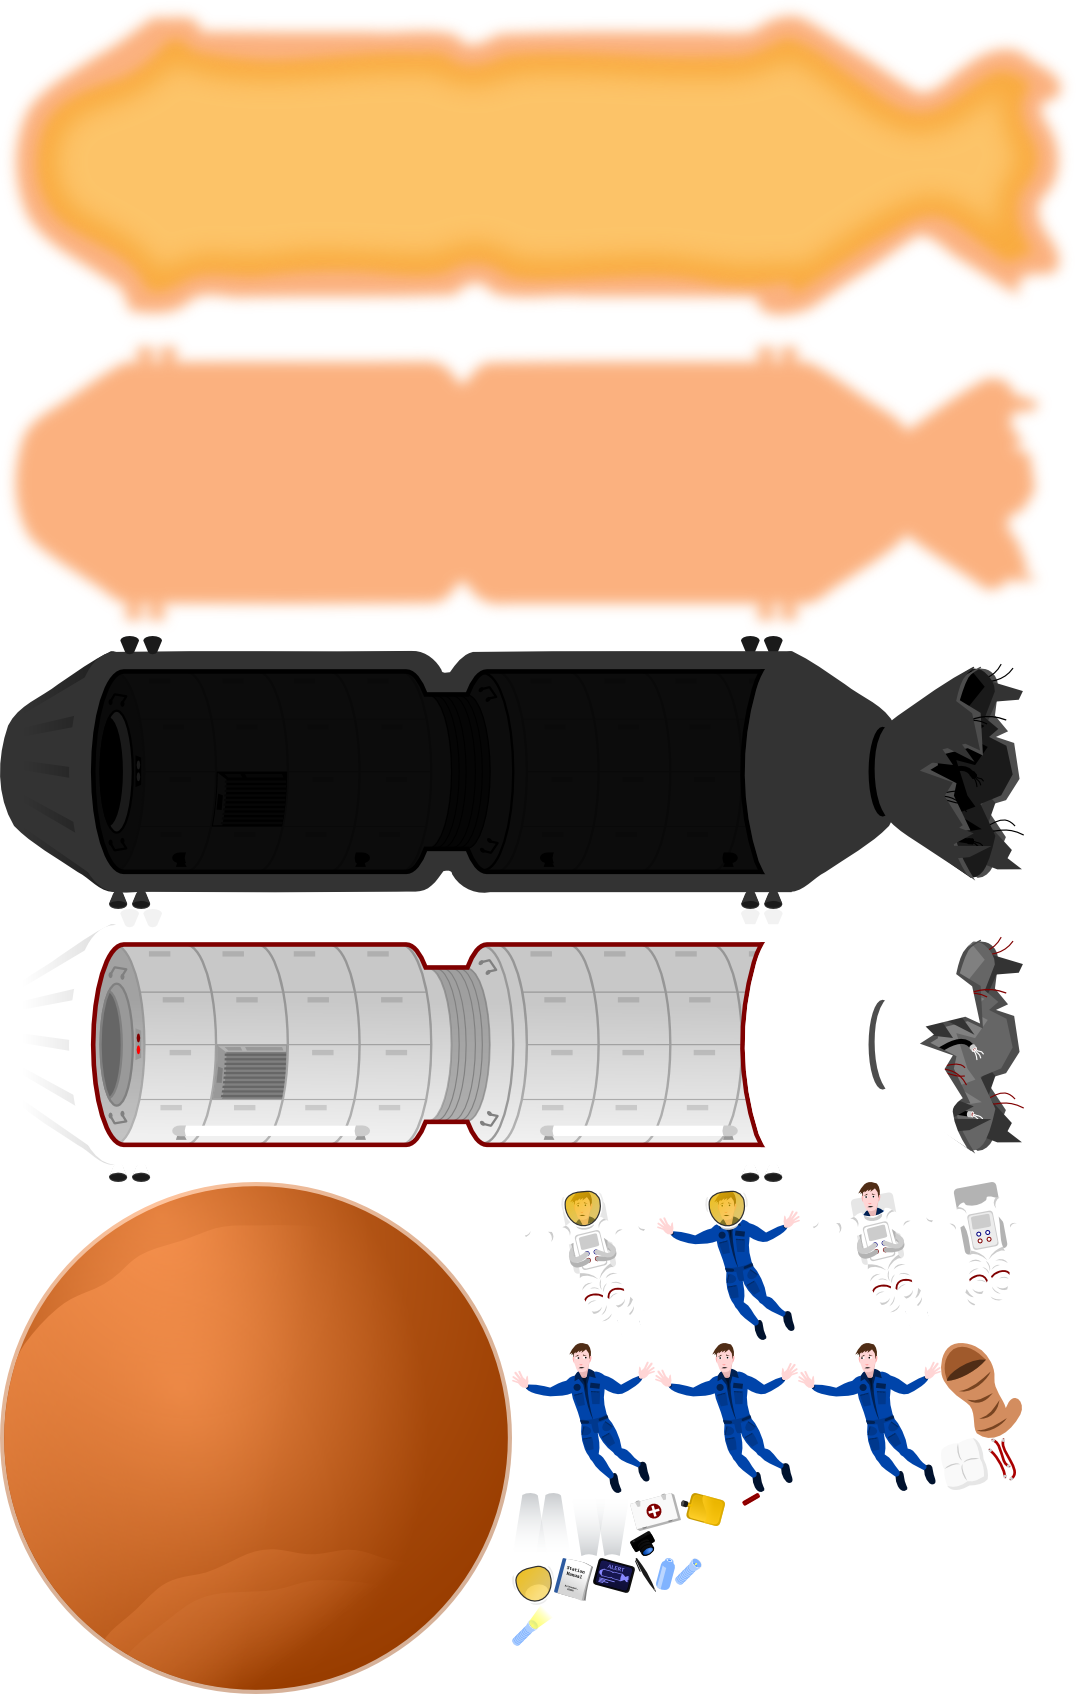
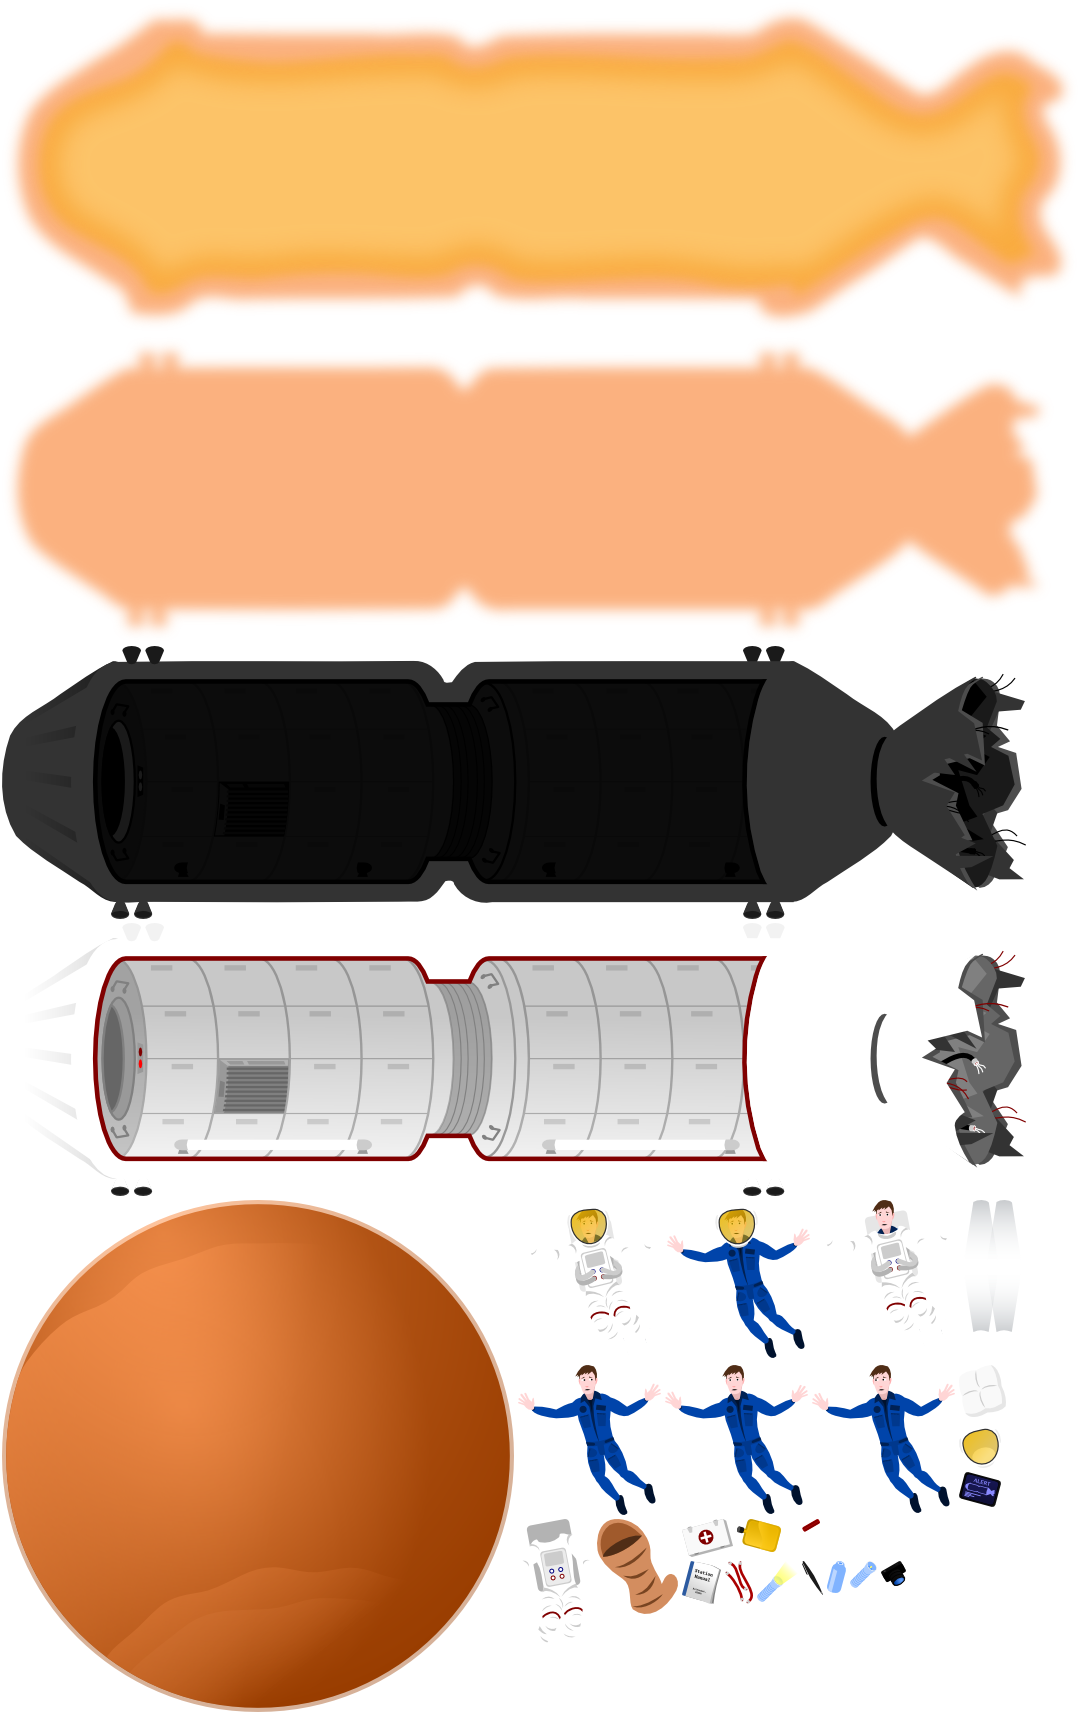
Added padding around sprites for resizing
Because of the resampling a sprite can "bleed" out of its frame.

diff --git a/index.html b/index.html
@@ -257,22 +257,22 @@ var Game = (function()
 				offset: 0,
 				distance: 0,
 				angle: 0,
-				res: [{/*venus*/x:0,y:1182,w:512,h:512}] },
+				res: [{/*venus*/x:0,y:1198,w:516,h:516}] },
 			station: {
 				draw: drawStation,
 				res: [
-					{/*station*/x:0,y:909,w:1024,h:273},
-					{/*station_burned*/x:0,y:636,w:1024,h:273}] },
+					{/*station*/x:0,y:921,w:1028,h:277},
+					{/*station_burned*/x:0,y:644,w:1028,h:277}] },
 			boosterTop: {
 				ox: -370,
 				oy: -168,
 				draw: drawBooster,
-				res: [{/*booster_top*/x:571,y:1493,w:59,h:63}] },
+				res: [{/*booster_top*/x:961,y:1267,w:63,h:67}] },
 			boosterBottom: {
 				ox: 250,
 				oy: 162,
 				draw: drawBooster,
-				res: [{/*booster_bottom*/x:512,y:1493,w:59,h:65}] },
+				res: [{/*booster_bottom*/x:961,y:1198,w:63,h:69}] },
 			water: {
 				use: function()
 				{
@@ -283,7 +283,7 @@ var Game = (function()
 				ox: 116,
 				oy: -39,
 				index: 0,
-				res: [{/*item_water*/x:656,y:1558,w:19,h:32}] },
+				res: [{/*item_water*/x:825,y:1559,w:23,h:36}] },
 			food: {
 				use: function()
 				{
@@ -293,7 +293,7 @@ var Game = (function()
 				ox: -91,
 				oy: -11,
 				index: 0,
-				res: [{/*item_food*/x:681,y:1493,w:44,h:33}] },
+				res: [{/*item_food*/x:735,y:1517,w:48,h:37}] },
 			medpack: {
 				use: function()
 				{
@@ -303,7 +303,7 @@ var Game = (function()
 				ox: 156,
 				oy: 33,
 				index: 0,
-				res: [{/*item_medpack*/x:630,y:1493,w:51,h:38}] },
+				res: [{/*item_medpack*/x:680,y:1517,w:55,h:42}] },
 			screwdriver: {
 				use: function()
 				{
@@ -321,7 +321,7 @@ var Game = (function()
 				ox: -71,
 				oy: 27,
 				index: 0,
-				res: [{/*item_screwdriver*/x:725,y:1493,w:35,h:22}] },
+				res: [{/*item_screwdriver*/x:783,y:1517,w:39,h:26}] },
 			pen: {
 				use: function()
 				{
@@ -341,7 +341,7 @@ var Game = (function()
 				ox: -8,
 				oy: 24,
 				index: 0,
-				res: [{/*item_pen*/x:635,y:1558,w:21,h:34}] },
+				res: [{/*item_pen*/x:800,y:1559,w:25,h:38}] },
 			manual: {
 				use: function()
 				{
@@ -351,7 +351,7 @@ var Game = (function()
 				ox: -142,
 				oy: 28,
 				index: 0,
-				res: [{/*item_manual*/x:554,y:1558,w:39,h:43}] },
+				res: [{/*item_manual*/x:680,y:1559,w:43,h:47}] },
 			helmet: {
 				use: function()
 				{
@@ -367,7 +367,7 @@ var Game = (function()
 				ox: -140,
 				oy: -45,
 				index: 0,
-				res: [{/*item_helmet*/x:512,y:1558,w:42,h:47}] },
+				res: [{/*item_helmet*/x:957,y:1419,w:46,h:51}] },
 			suit: {
 				use: function()
 				{
@@ -383,7 +383,7 @@ var Game = (function()
 				ox: 54,
 				oy: -13,
 				index: 0,
-				res: [{/*item_suit*/x:945,y:1182,w:75,h:132}] },
+				res: [{/*item_suit*/x:516,y:1517,w:79,h:136}] },
 			sleepbag: {
 				use: function()
 				{
@@ -393,7 +393,7 @@ var Game = (function()
 				ox: -340,
 				oy: 15,
 				index: 0,
-				res: [{/*item_sleepbag*/x:941,y:1343,w:81,h:95}] },
+				res: [{/*item_sleepbag*/x:595,y:1517,w:85,h:99}] },
 			wires: {
 				use: function()
 				{
@@ -403,7 +403,7 @@ var Game = (function()
 				ox: -297,
 				oy: 15,
 				index: 0,
-				res: [{/*item_wires*/x:988,y:1438,w:28,h:43}] },
+				res: [{/*item_wires*/x:723,y:1559,w:32,h:47}] },
 			lamp: {
 				use: function()
 				{
@@ -414,8 +414,8 @@ var Game = (function()
 				oy: -55,
 				index: 0,
 				res: [
-					{/*item_lamp*/x:675,y:1558,w:27,h:27},
-					{/*item_lamp_on*/x:512,y:1605,w:41,h:41}] },
+					{/*item_lamp*/x:848,y:1559,w:31,h:31},
+					{/*item_lamp_on*/x:755,y:1559,w:45,h:45}] },
 			camera: {
 				use: function()
 				{
@@ -425,7 +425,7 @@ var Game = (function()
 				ox: -333,
 				oy: -62,
 				index: 0,
-				res: [{/*item_camera*/x:630,y:1531,w:25,h:25}] },
+				res: [{/*item_camera*/x:879,y:1559,w:29,h:29}] },
 			computer: {
 				use: function()
 				{
@@ -447,24 +447,24 @@ var Game = (function()
 				ox: 160,
 				oy: -26,
 				index: 0,
-				res: [{/*item_computer*/x:593,y:1558,w:42,h:35}] },
+				res: [{/*item_computer*/x:957,y:1470,w:46,h:39}] },
 			astronaut: {
 				draw: drawAstronaut,
 				ox: -248,
 				oy: 0,
 				index: 0,
 				res: [
-					{/*astronaut0*/x:655,y:1343,w:143,h:149},
-					{/*astronaut1*/x:798,y:1343,w:143,h:148},
-					{/*astronaut2*/x:512,y:1343,w:143,h:150},
-					{/*astronaut_helmet*/x:657,y:1182,w:143,h:158},
-					{/*astronaut_suit*/x:800,y:1182,w:145,h:152},
-					{/*astronaut_suited*/x:512,y:1182,w:145,h:161}] },
+					{/*astronaut0*/x:663,y:1363,w:147,h:153},
+					{/*astronaut1*/x:810,y:1363,w:147,h:152},
+					{/*astronaut2*/x:516,y:1363,w:147,h:154},
+					{/*astronaut_helmet*/x:665,y:1198,w:147,h:162},
+					{/*astronaut_suit*/x:812,y:1198,w:149,h:156},
+					{/*astronaut_suited*/x:516,y:1198,w:149,h:165}] },
 			heat: {
 				draw: drawHeat,
 				res: [
-					{/*heat*/x:0,y:331,w:1052,h:305},
-					{/*heat_burning*/x:0,y:0,w:1076,h:331}] }
+					{/*heat*/x:0,y:335,w:1056,h:309},
+					{/*heat_burning*/x:0,y:0,w:1080,h:335}] }
 		},
 		scaledAtlas,
 		canvas,
@@ -585,6 +585,7 @@ var Game = (function()
 			}
 		}
 
+		// pick sprite
 		{
 			var inv = obj.inventory;
 
